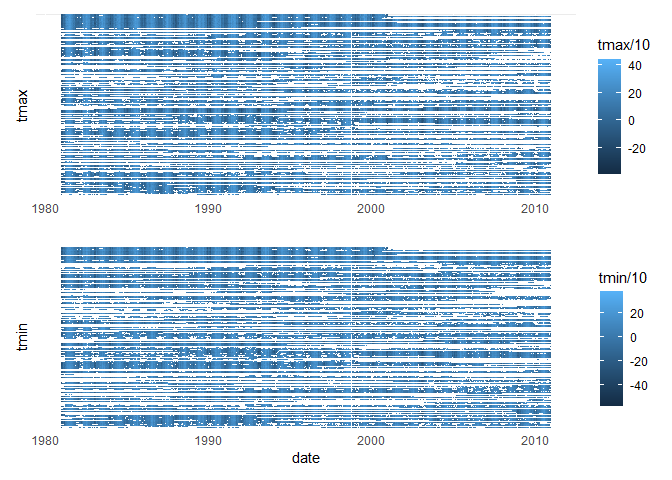
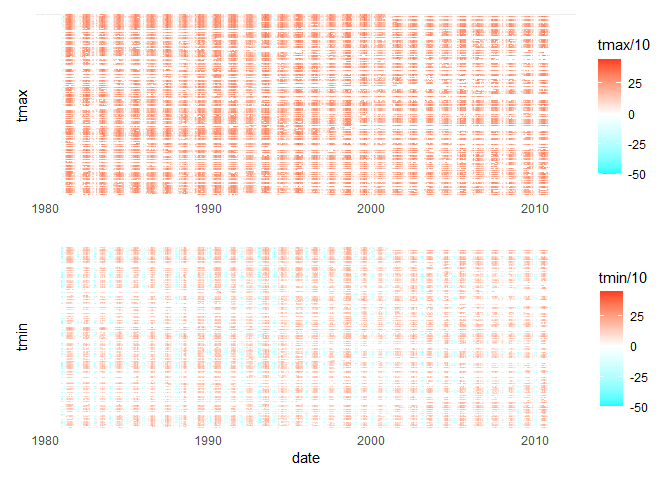
changed the color of heatmap

diff --git a/p8105_hw3_zl3263.md b/p8105_hw3_zl3263.md
@@ -213,9 +213,16 @@ sort(table(ny_noaa$snow),decreasing = TRUE)[1]
     ## 1112758
 
 According to the dataset information, the variable and corresponding
-units are shown as below:  
-\| Variable Name \| Unit \| \|:————- \| —— \| \| prcp \| 0.1 mm \| \|
-snow \| mm \| \| snwd \| mm \| \| tmax \| 0.1 C \| \| tmin \| 0.1 C \|
+units are shown as below:
+
+| Variable Name | Unit   |
+|:--------------|--------|
+| prcp          | 0.1 mm |
+| snow          | mm     |
+| snwd          | mm     |
+| tmax          | 0.1 C  |
+| tmin          | 0.1 C  |
+
 The most frequent value for snow fall is 0, it’s probably because in
 most of the days in a year New York doesn’t have snow.
 
@@ -244,7 +251,8 @@ ny_noaa %>%
 ![](p8105_hw3_zl3263_files/figure-gfm/unnamed-chunk-10-1.png)<!-- -->
 
 The temperature in July is much higher than January, which indicates
-that New York is in the northern hemisphere.
+that New York is in the northern hemisphere. Outliers are not obvious in
+averaged data.
 
 *making two-panel plot showing tmax vs tmin*
 
@@ -255,17 +263,22 @@ heatTmax = ggplot(ny_noaa,aes(x = date, y = id, fill = tmax/10))+
   geom_tile()+
   theme(axis.ticks = element_blank(), axis.text.y = element_blank())+
   xlab("")+
-  ylab("tmax")
+  ylab("tmax")+
+  scale_fill_gradient2(limits = c(-50,45),
+                       low = "cyan",high = "red")
 
 heatTmin = ggplot(ny_noaa,aes(x = date, y = id, fill = tmin/10))+
   geom_tile()+
   theme(axis.ticks = element_blank(), axis.text.y = element_blank())+
-  ylab("tmin")
+  ylab("tmin")+
+  scale_fill_gradient2(limits = c(-50,45),
+                       low = "cyan",high = "red")
 
 heatTmax/heatTmin
 ```
 
 ![](p8105_hw3_zl3263_files/figure-gfm/unnamed-chunk-11-1.png)<!-- -->
+
 *making a plot showing distribution by year*
 
 ``` r
